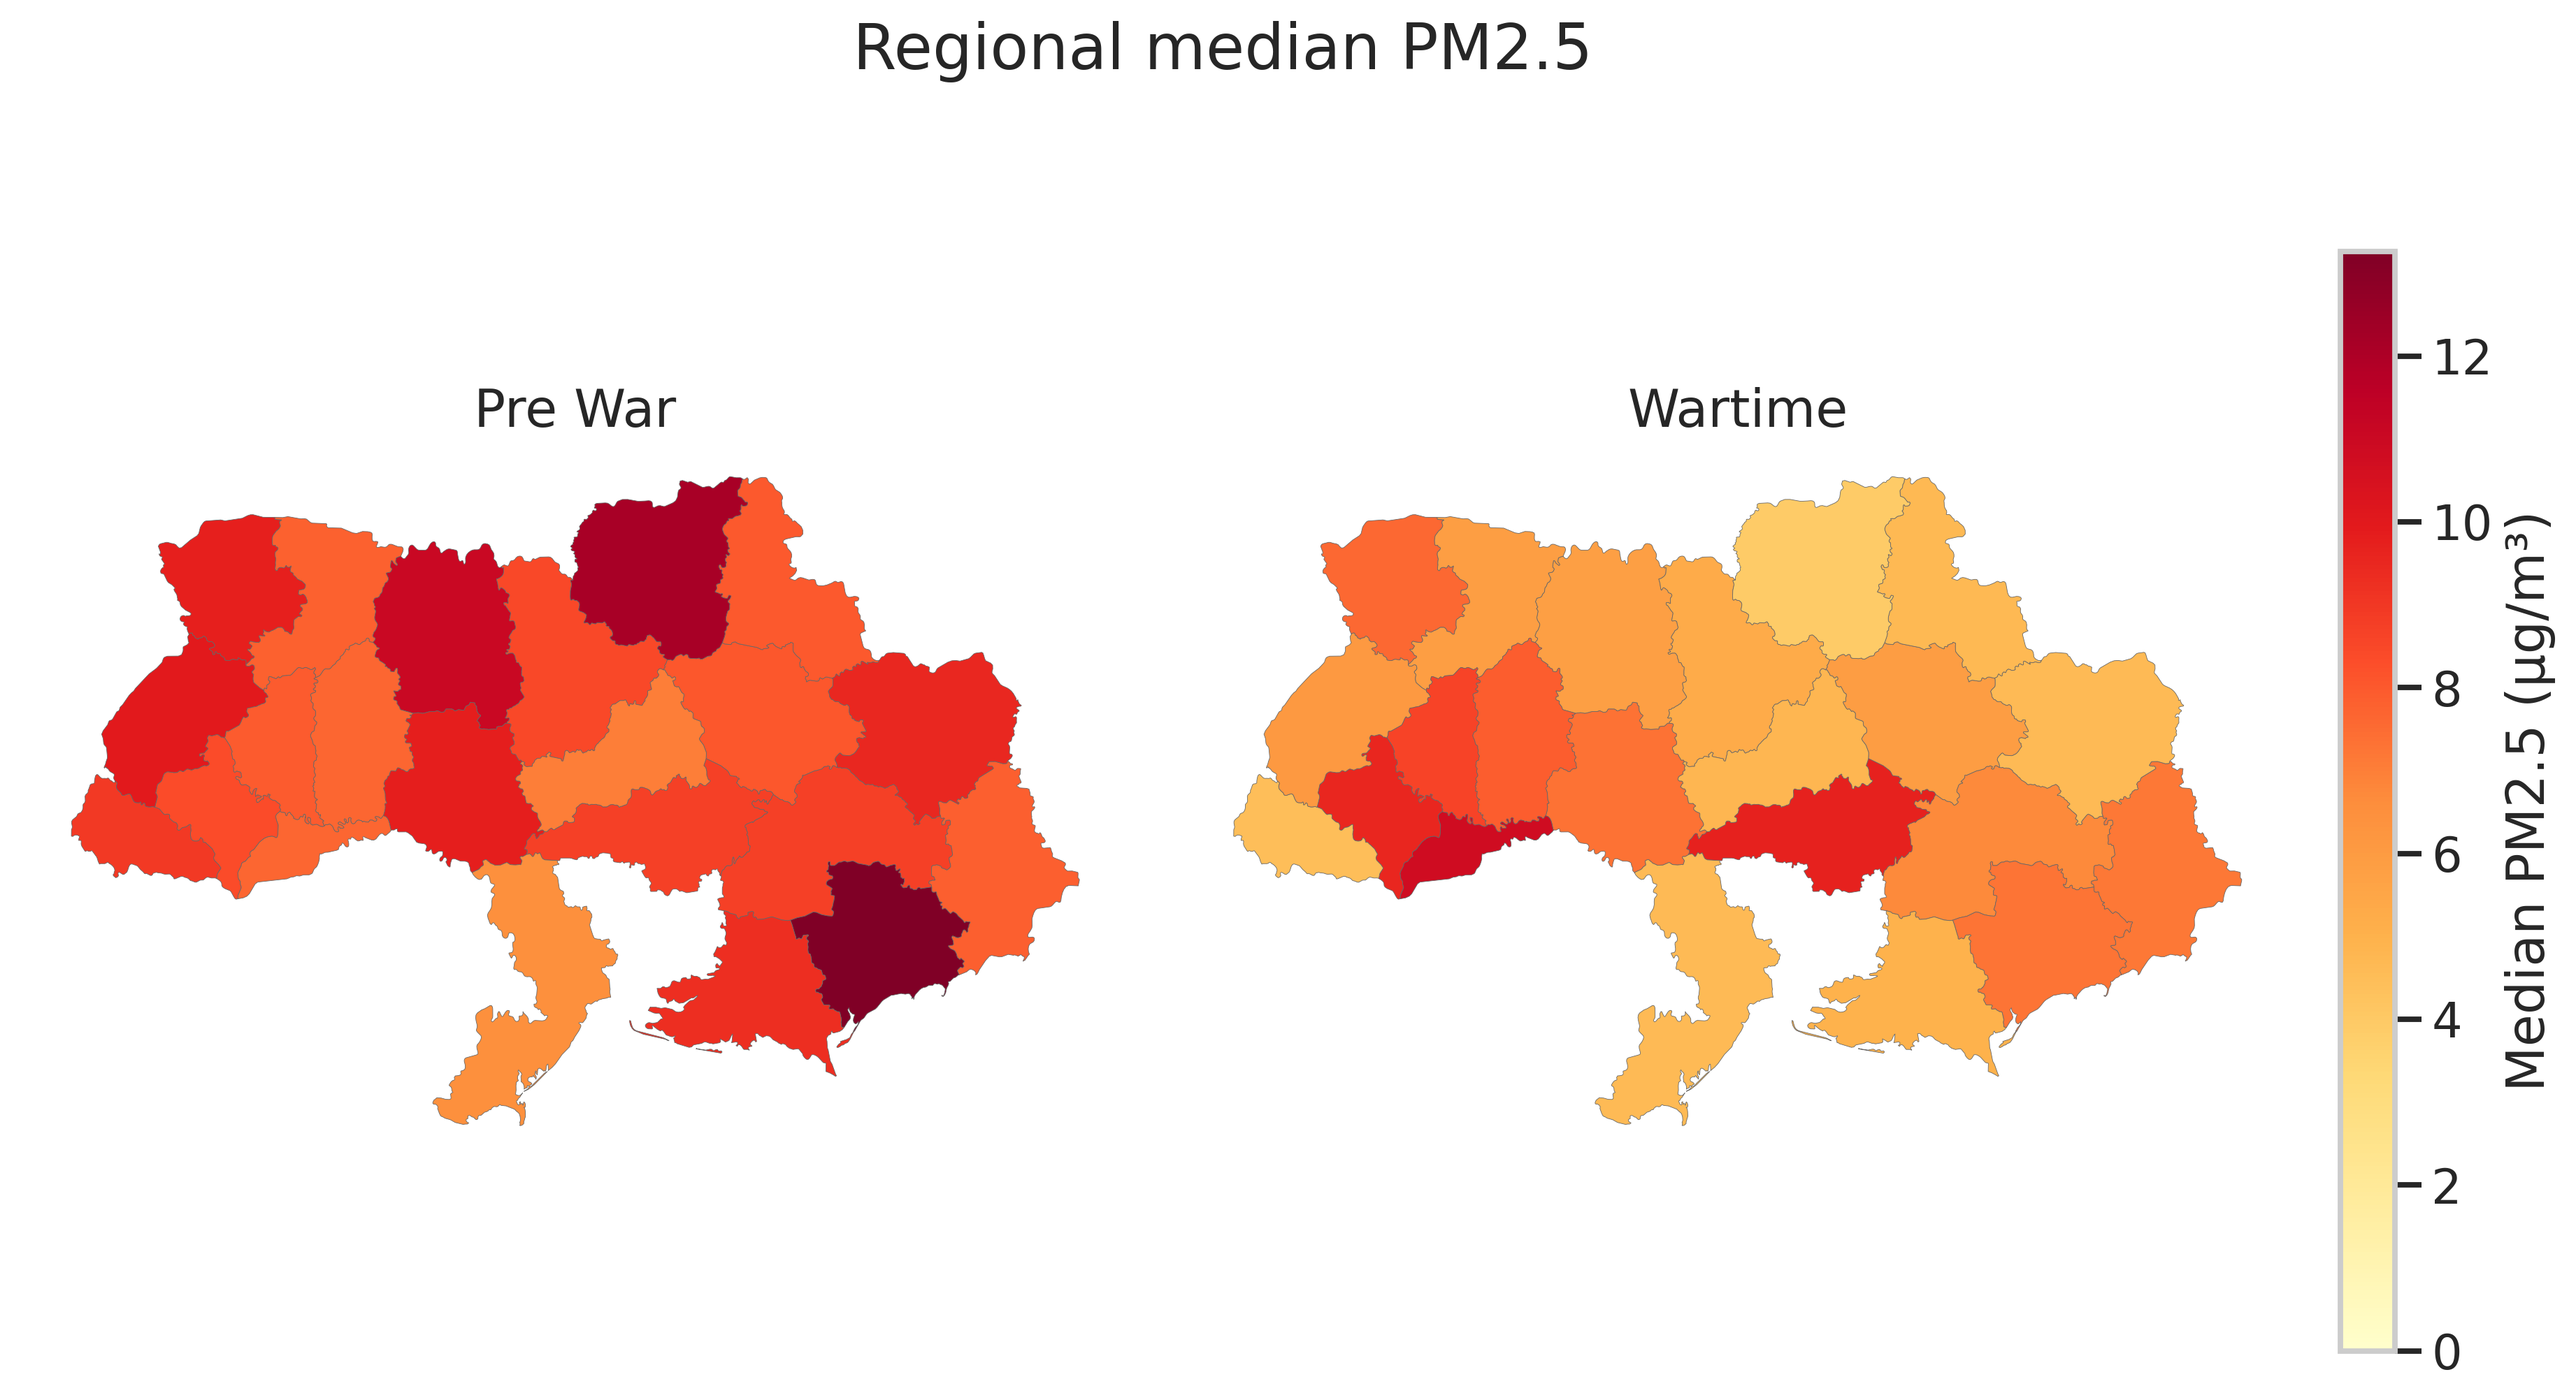
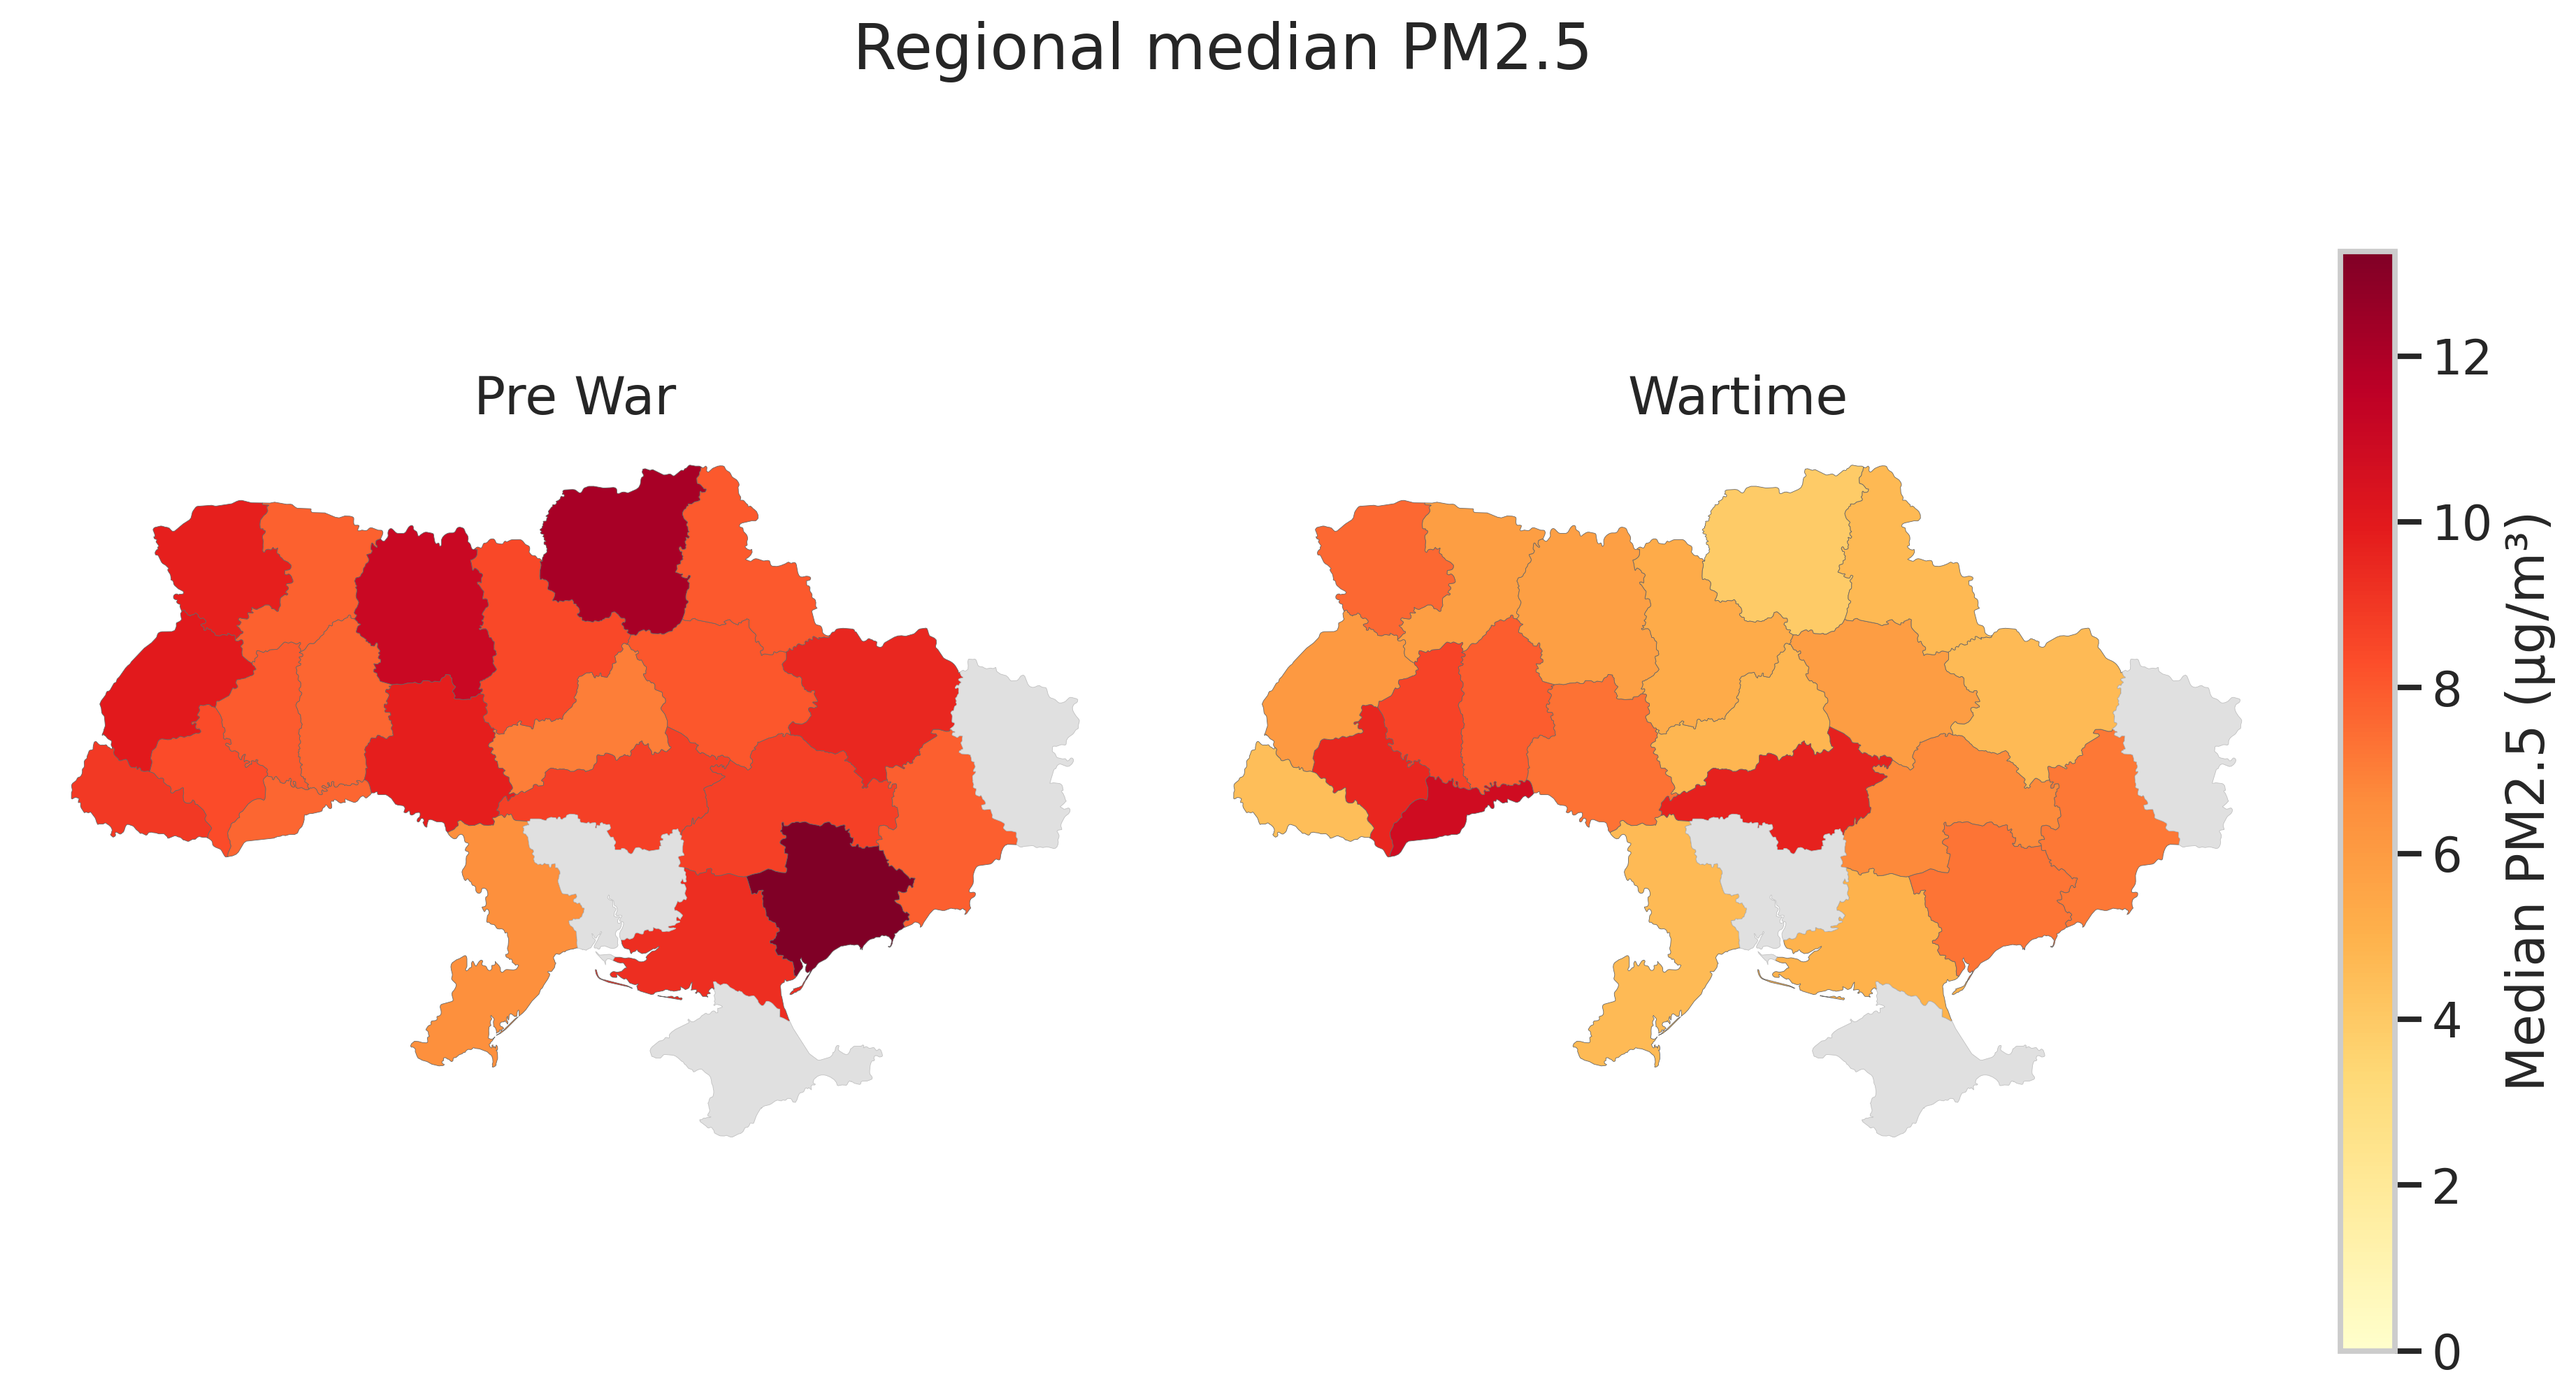
fix: choropleth missing regions

Changed region(s): [[0.0312, 0.2475, 0.4369, 0.8044], [0.4681, 0.3094, 0.8738, 0.8044], [0.6242, 0.2784, 0.7178, 0.3094]]

diff --git a/src/pipeline/aggregate.py b/src/pipeline/aggregate.py
@@ -237,15 +237,23 @@ def aggregate_data(
             raise ValueError("Administrative boundaries file missing name attributes for join")
 
         admin["region_key"] = admin_name.str.strip()
-        region_period["region_key"] = region_period["region_name"].str.strip()
-        merge_cols = ["region_key", "geometry"]
+        admin_base = admin[["region_key", "geometry"]].copy()
         if "koatuu" in admin.columns:
-            merge_cols.append("koatuu")
-        merged = region_period.merge(
-            admin[merge_cols],
-            how="left",
-            on="region_key",
+            admin_base["koatuu"] = admin["koatuu"]
+
+        region_period["region_key"] = region_period["region_name"].str.strip()
+        periods_df = pd.DataFrame({"period": ["pre_war", "wartime"]})
+        admin_period = (
+            admin_base.assign(_key=1)
+            .merge(periods_df.assign(_key=1), on="_key")
+            .drop(columns="_key")
         )
+        merged = admin_period.merge(
+            region_period,
+            how="left",
+            on=["region_key", "period"],
+        )
+        merged["region_name"] = merged["region_name"].fillna(merged["region_key"])
         merged_gdf = gpd.GeoDataFrame(merged, geometry="geometry", crs=admin.crs)
         merged_gdf = merged_gdf.drop(columns=["region_key"], errors="ignore")
         merged_gdf.to_parquet(processed_dir / "region_period_pm25.parquet", index=False)

diff --git a/src/visualization/figures.py b/src/visualization/figures.py
@@ -447,7 +447,7 @@ def plot_choropleth(geo_data: gpd.GeoDataFrame, output: Path) -> None:
             vmax=norm.vmax,
             ax=ax,
             legend=False,
-            missing_kwds={"color": "#f0f0f0", "edgecolor": "#d0d0d0"},
+            missing_kwds={"color": "#e0e0e0", "edgecolor": "#c0c0c0"},
         )
         ax.set_title(period.replace("_", " ").title())
         ax.axis("off")
